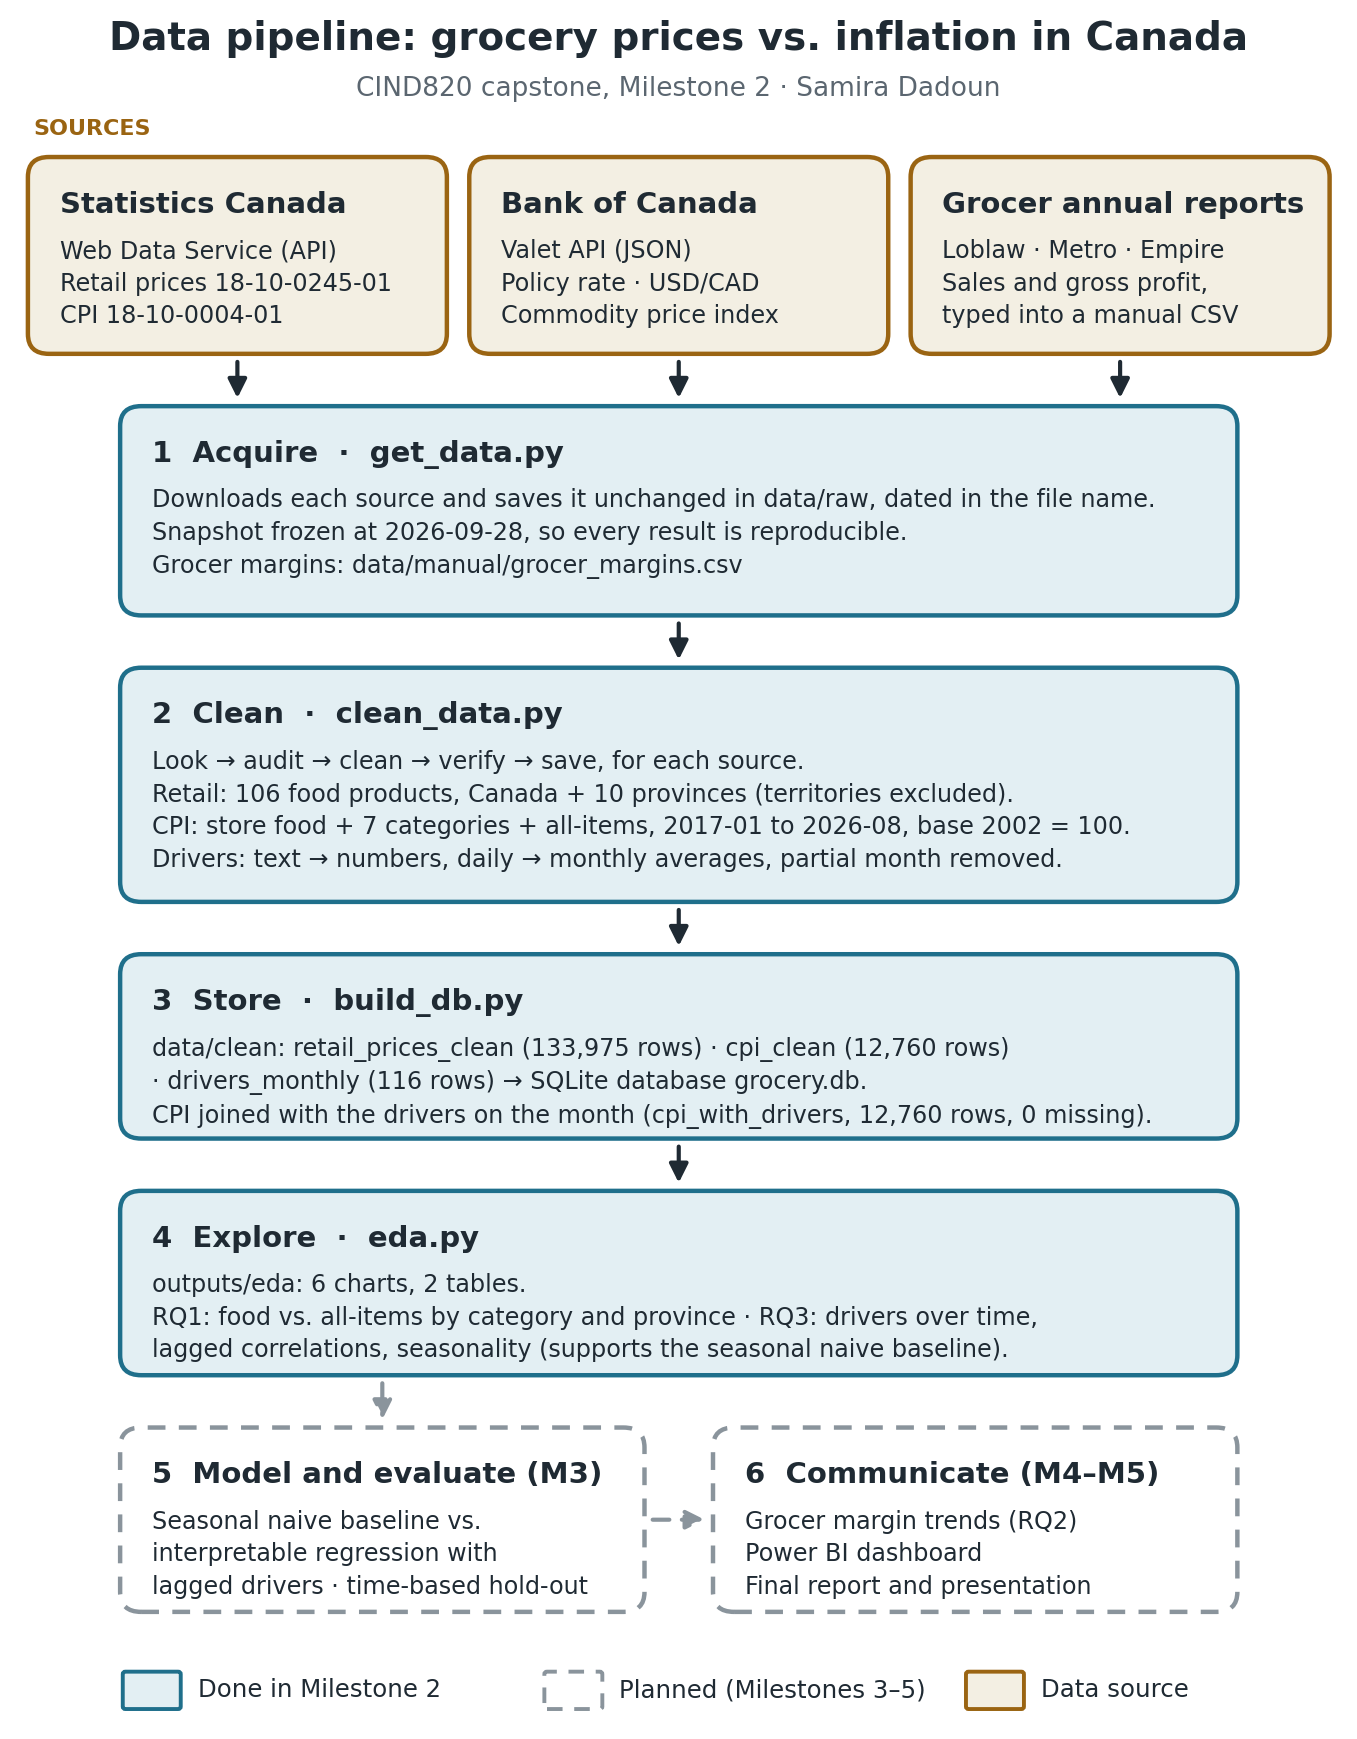
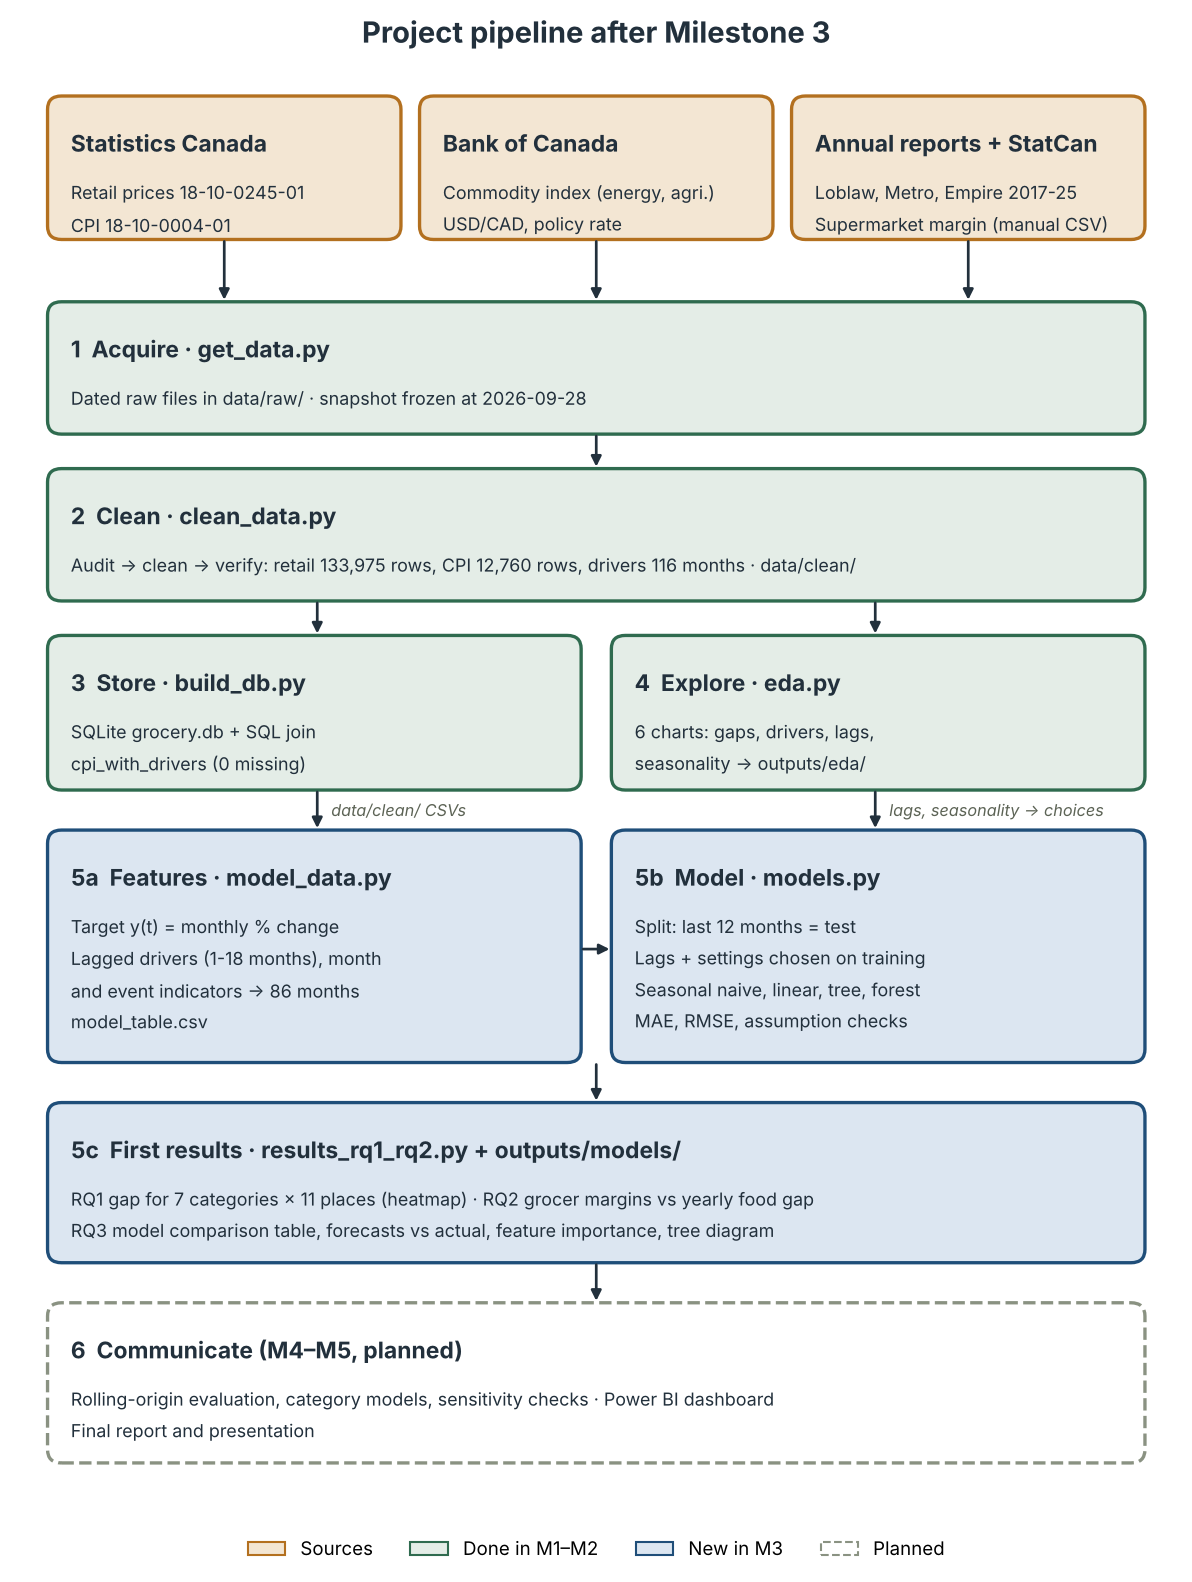
M3 Task 7: README run steps, requirements, updated pipeline diagram

diff --git a/README.md b/README.md
@@ -19,11 +19,11 @@ Food prices in Canada rose sharply after 2021. This project uses public data to 
 | Consumer Price Index, monthly, not seasonally adjusted (18-10-0004-01) | Statistics Canada | Web Data Service API | Statistics Canada Open Licence |
 | Policy rate (V39079), USD/CAD (FXUSDCAD), commodity price index (BCPI: energy, agriculture) | Bank of Canada | Valet API | Bank of Canada terms of use |
 | Grocer annual reports (Loblaw, Metro, Empire), fiscal 2017-2025 | Companies (also on SEDAR+) | Manual extraction into `data/manual/grocer_margins.csv`, with report and page for every value | Public disclosure |
-| Annual retail trade survey, supermarket gross margin (20-10-0066-01 for 2012-2021; 20-10-0083-01 for 2022 onward) | Statistics Canada | Web Data Service API (to be added to `get_data.py` in Milestone 3) | Statistics Canada Open Licence |
+| Annual retail trade survey, supermarket gross margin (20-10-0066-01 for 2012-2021; 20-10-0083-01 for 2022 onward) | Statistics Canada | Web Data Service API (planned for `get_data.py` in Milestone 4; not used in the M3 results) | Statistics Canada Open Licence |
 
 ## Data access notes
 - Raw data, clean data and the database are **not stored in this repository**. They are rebuilt by the scripts below.
-- All Milestone 2 results use one **frozen snapshot downloaded on 2026-09-28** (the date is in every raw file name). Re-downloading later can change the data.
+- All Milestone 2 and 3 results use one **frozen snapshot downloaded on 2026-09-28** (the date is in every raw file name). Re-downloading later can change the data.
 - The grocer annual report PDFs are kept locally in `data/manual/reports/` (not committed). Each value in `grocer_margins.csv` lists the report and page it comes from.
 
 ## How to run
@@ -33,7 +33,11 @@ python get_data.py      # 1. download raw data into data/raw/ (dated file names)
 python clean_data.py    # 2. audit and clean -> data/clean/*.csv
 python build_db.py      # 3. load clean tables into SQLite -> data/grocery.db
 python eda.py           # 4. profiling charts and tables -> outputs/eda/
+python model_data.py    # 5a. modeling table (target + lagged drivers) -> data/clean/model_table.csv
+python models.py        # 5b. seasonal naive, linear regression, tree, forest -> outputs/models/
+python results_rq1_rq2.py  # 5c. RQ1 heatmap and RQ2 margins chart -> outputs/results/
 ```
+Chart windows pause the scripts: close each window to continue.
 
 ## Repository structure
 ```
@@ -45,23 +49,38 @@ python eda.py           # 4. profiling charts and tables -> outputs/eda/
 ├── clean_data.py          2. Audits and cleans each source (look, audit, clean, verify, save)
 ├── build_db.py            3. Builds the SQLite database and joins CPI with the drivers
 ├── eda.py                 4. Data profiling: charts and tables
+├── model_data.py          5a. Builds the RQ3 modeling table (target, lagged drivers, month and event indicators)
+├── models.py              5b. Baseline + 3 models, assumption checks, comparison table and charts
+├── results_rq1_rq2.py     5c. First RQ1 and RQ2 results
 ├── data/
 │   ├── manual/grocer_margins.csv   Grocer sales and gross profit (committed)
 │   ├── raw/  clean/  grocery.db    Created by the scripts (not committed)
 └── outputs/
     ├── pipeline_diagram.png        Pipeline overview
-    └── eda/                        6 charts and 2 tables from eda.py
+    ├── eda/                        6 charts and 2 tables from eda.py
+    ├── models/                     RQ3: model_comparison.csv, test_forecasts.csv, 4 charts
+    └── results/                    RQ1 heatmap, RQ2 chart and their tables
 ```
+
+## Milestone 3 results (RQ3, test months Sep 2025 - Aug 2026)
+| Model | MAE | RMSE |
+|---|---|---|
+| Seasonal naive (baseline) | 0.518 | 0.581 |
+| Linear regression | 0.488 | 0.550 |
+| Regression tree | 0.472 | 0.630 |
+| Random forest | 0.505 | 0.649 |
+
+Target: monthly % change in store-food CPI (Canada). Details in `outputs/models/` and the M3 report.
 
 ## Use of generative AI
 Generative AI (Claude, Anthropic) was used as a tutor to explain concepts and debug code, to draft documentation and report text, and to extract grocer figures from annual reports. All code was typed, run and verified by the author, and every extracted value was checked against its cited page. Detailed AI use declarations are included in each milestone report.
 
 ## Tools
-Python (pandas, matplotlib) · SQL (SQLite) · Power BI · GitHub
+Python (pandas, matplotlib, scikit-learn, statsmodels) · SQL (SQLite) · Power BI · GitHub
 
 ## Project status
 - [x] Milestone 1: Design & Strategy
 - [x] Milestone 2: Architecture & Data Audit
-- [ ] Milestone 3: Initial Results & Coding
+- [x] Milestone 3: Initial Results & Coding
 - [ ] Milestone 4: Final Results & Report
 - [ ] Milestone 5: Presentation & Demo
